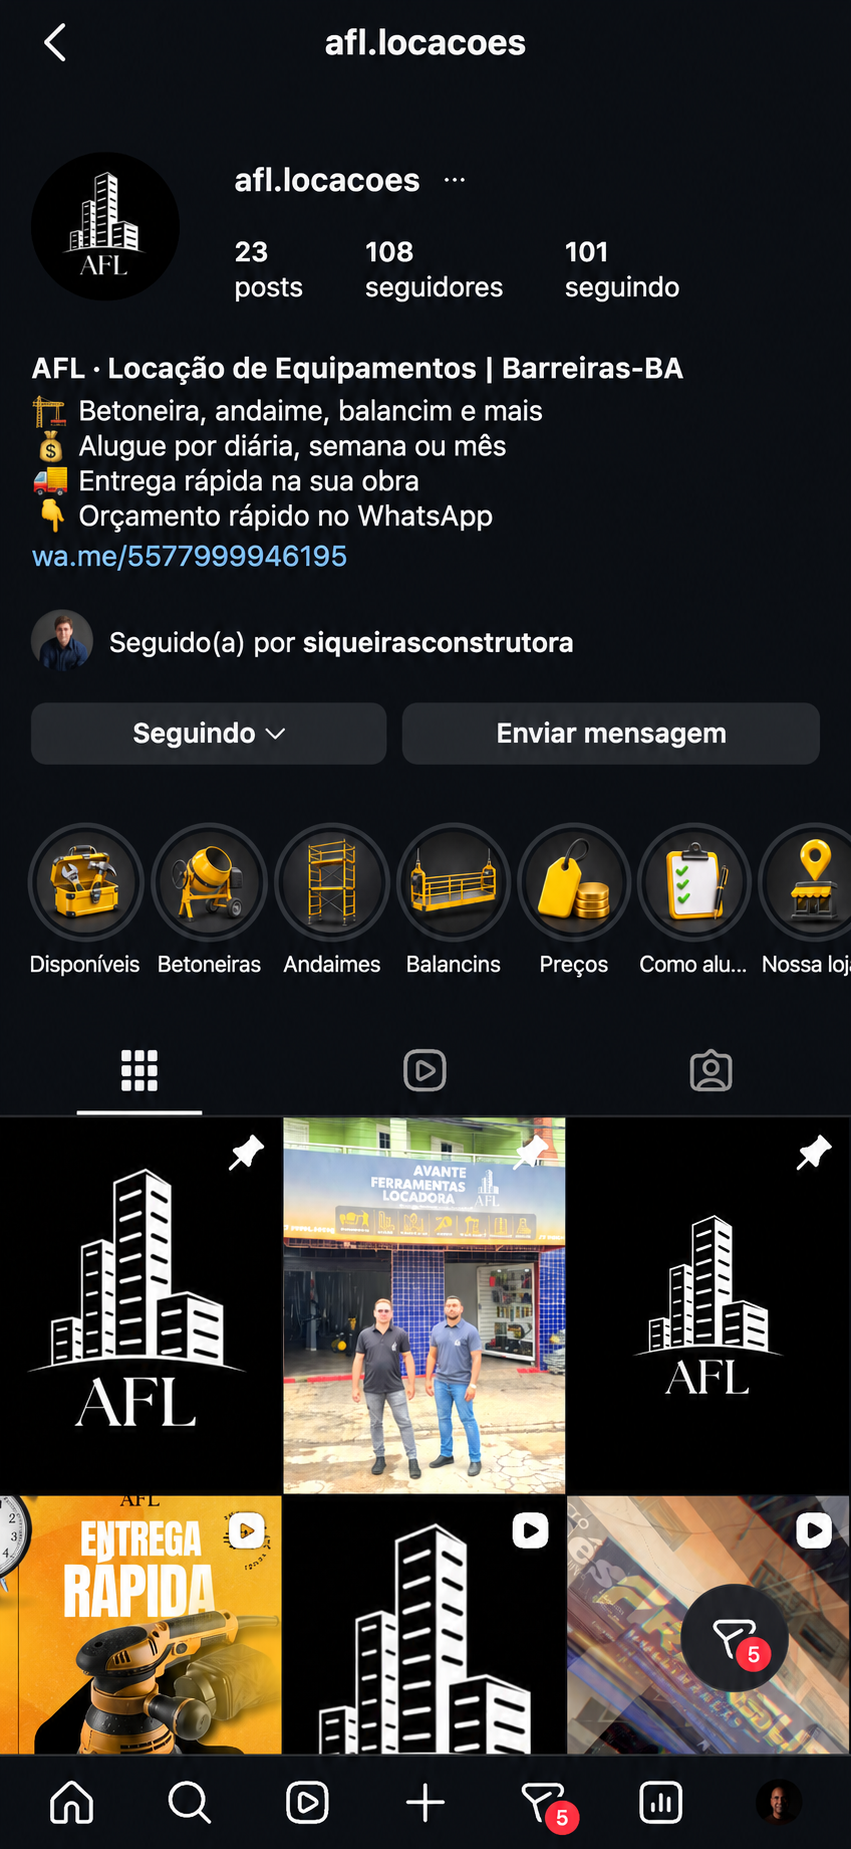
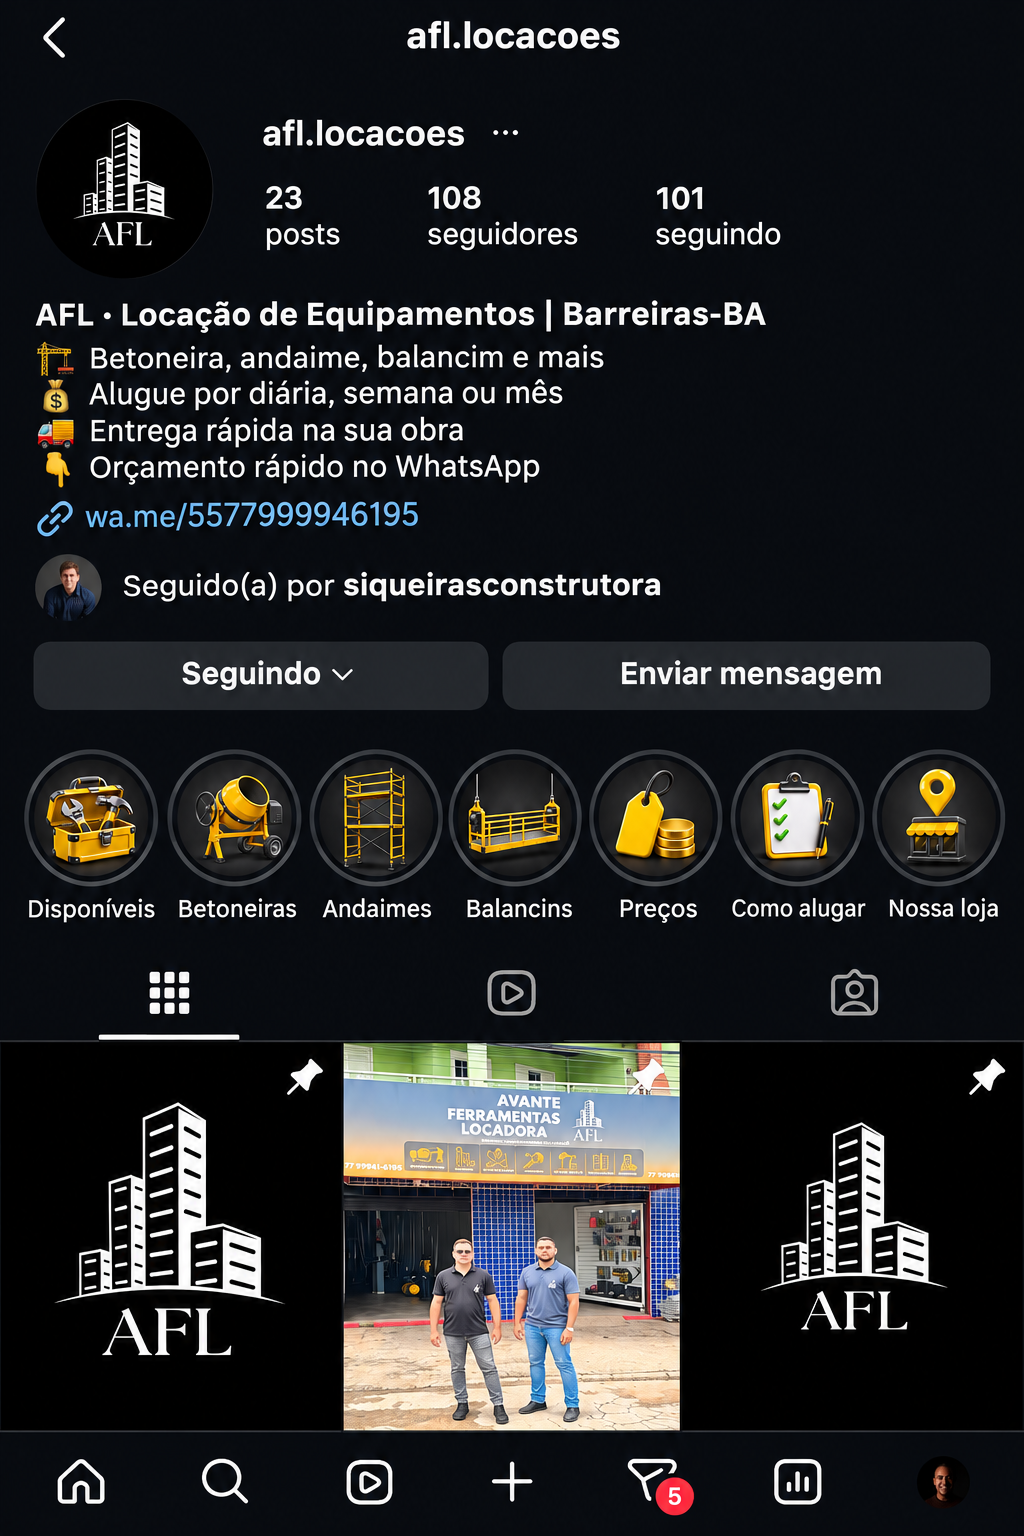
fix: prévia do perfil novo em alta resolução com os 7 destaques inteiros

diff --git a/02-CONTEUDO/review-instagram.html b/02-CONTEUDO/review-instagram.html
@@ -614,7 +614,7 @@
       <div class="section-title">Como fica o perfil <em>novo</em></div>
     </div>
     <div class="print-wrap">
-      <img src="mockup-perfil-novo-web.jpg" alt="Pr&eacute;via do perfil novo da AFL no Instagram" width="680" height="1478" loading="lazy" style="width:340px; max-width:100%; height:auto; max-height:none;">
+      <img src="mockup-perfil-novo-web.jpg" alt="Pr&eacute;via do perfil novo da AFL no Instagram" width="1024" height="1536" loading="lazy" style="width:400px; max-width:100%; height:auto; max-height:none;">
       <p>Simula&ccedil;&atilde;o com todas as mudan&ccedil;as aplicadas: novo @ (afl.locacoes), nome pesquis&aacute;vel, bio dentro do limite, link do WhatsApp e os 7 destaques com as capas novas. <a href="mockup-perfil-novo.png" style="color:#7CB8FF;">Abrir em alta resolu&ccedil;&atilde;o</a>.</p>
     </div>
   </div>
